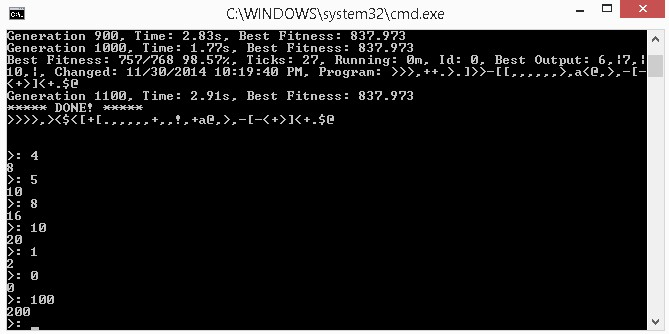
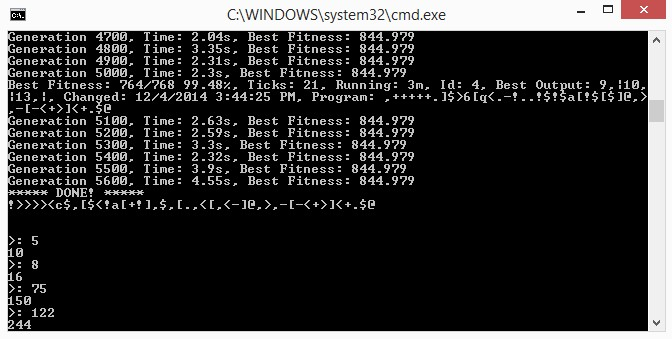
Added successful result for TimesTwo fitness.

diff --git a/AIProgrammer.Fitness/Concrete/TimesThreeFitness.cs b/AIProgrammer.Fitness/Concrete/TimesThreeFitness.cs
@@ -10,9 +10,9 @@ using System.Threading.Tasks;
 namespace AIProgrammer.Fitness.Concrete
 {
     /// <summary>
-    /// Calculates input * 2. Example: 3 => 6, 5 => 10, etc. Input and output is a byte value (not ASCII character).
+    /// Calculates input * 3. Input and output is a byte value (not ASCII character).
     /// </summary>
-    public class TimesTwoFitness : FitnessBase
+    public class TimesThreeFitness : FitnessBase
     {
         private int _trainingCount;
         private static int _functionCount; // number of functions in the appeneded code.
@@ -21,9 +21,9 @@ namespace AIProgrammer.Fitness.Concrete
         /// Previously generated BrainPlus function for addition. Generated using AddFitness.
         /// To use, set _appendCode = DoubleFitness.AddFunction in main program.
         /// </summary>
-        public static string AddFunction = ",>,-[-<+>]<+.$@";
+        public static string AddFunction = ",>,-[-<+>]<+$@!>>>><c$,[$<!a[+!],$,[.,<[,<-]$@";
 
-        public TimesTwoFitness(GA ga, int maxIterationCount, int maxTrainingCount = 3, string appendFunctions = null)
+        public TimesThreeFitness(GA ga, int maxIterationCount, int maxTrainingCount = 3, string appendFunctions = null)
             : base(ga, maxIterationCount, appendFunctions)
         {
             _trainingCount = maxTrainingCount;
@@ -103,7 +103,7 @@ namespace AIProgrammer.Fitness.Concrete
                     _output.Append(_console.ToString());
                     _output.Append("|");
 
-                    Fitness += 256 - Math.Abs(result - (input1 + input1));
+                    Fitness += 256 - Math.Abs(result - (input1 + input1 + input1));
                 }
 
                 // Make the AI wait until a solution is found without the penalty (too many input characters).
